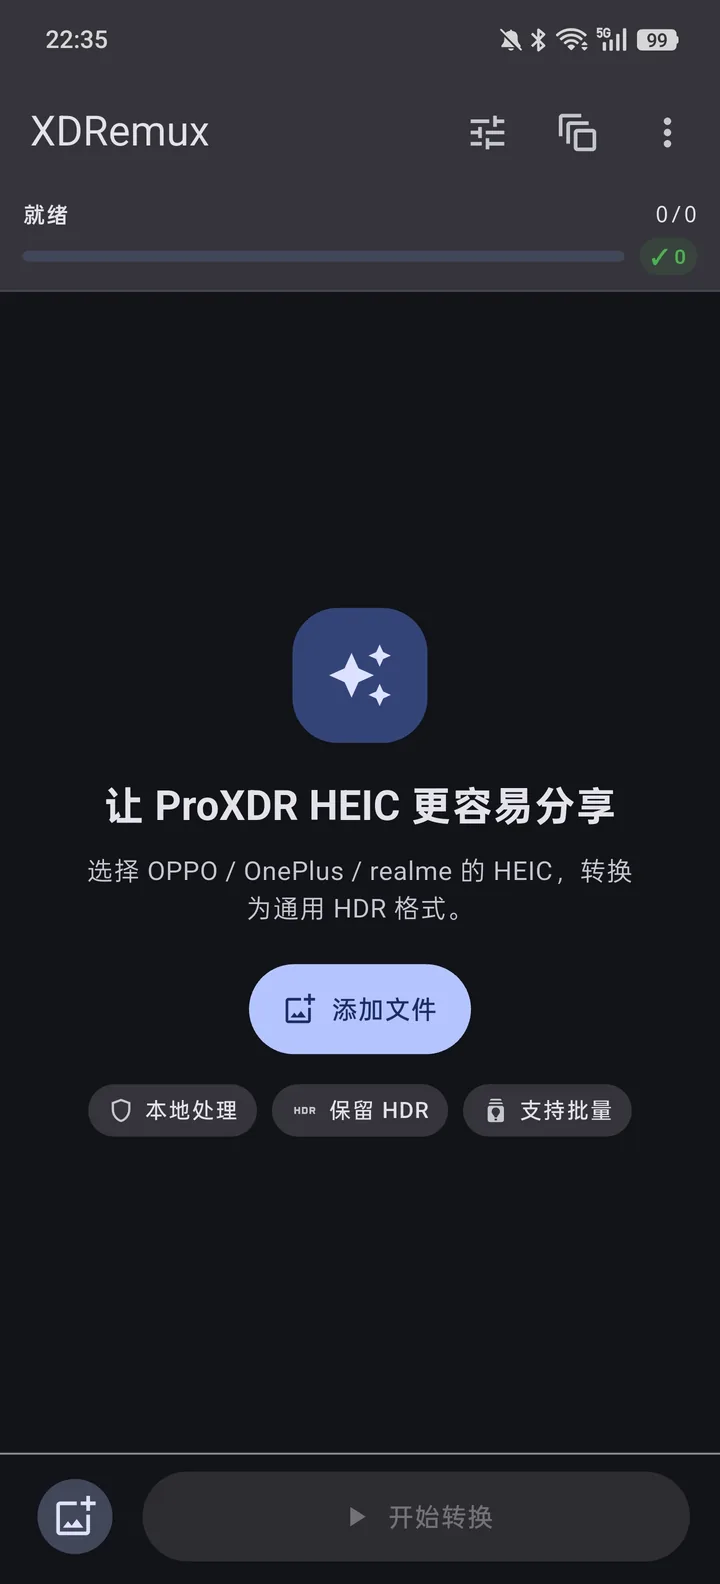
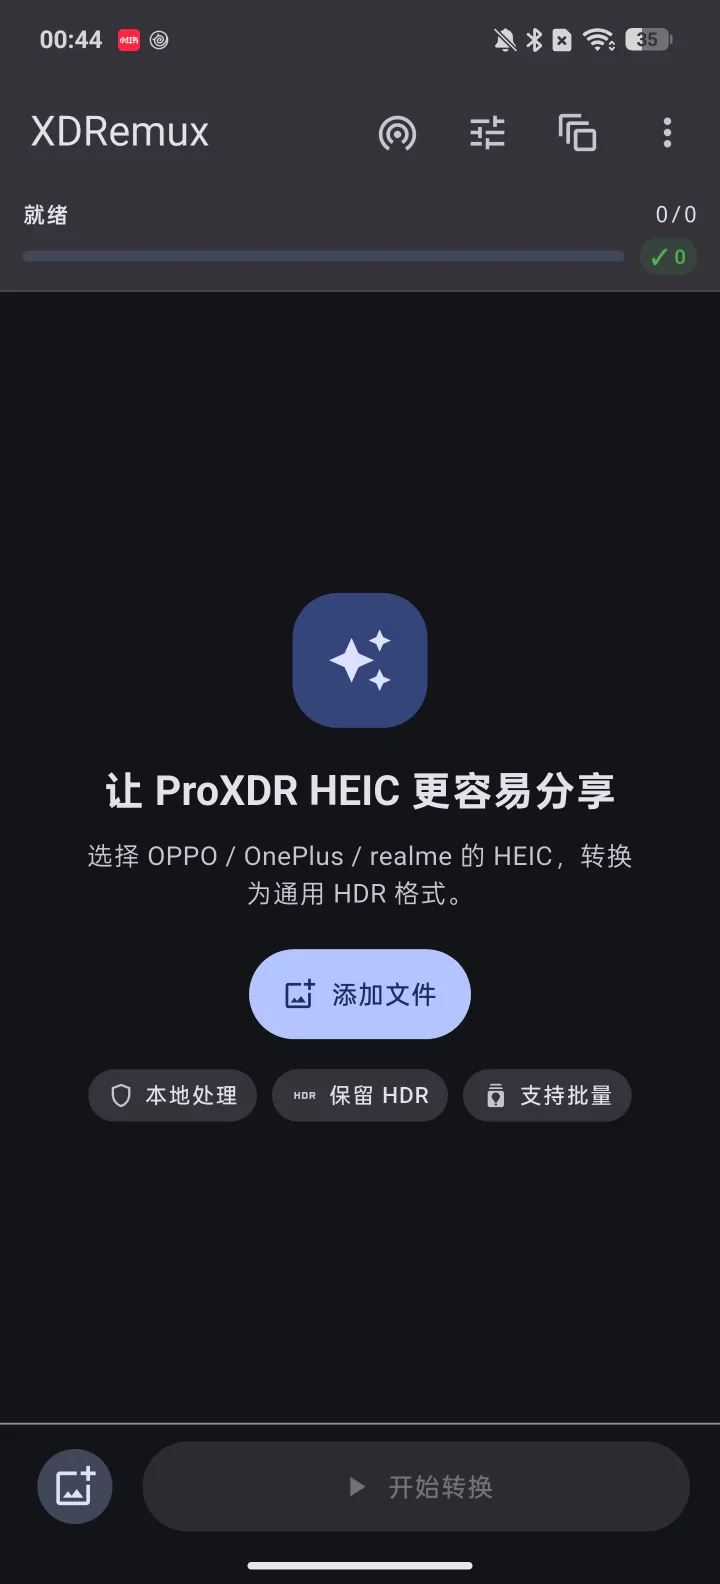
assets: Android screenshot from the 0.4.7 build on an OPPO Find X8 Ultra

diff --git a/index.html b/index.html
@@ -896,7 +896,7 @@ button{font-family:inherit}
       <div class="screens" id="screens" role="tabpanel" aria-labelledby="tab-windows" data-reveal>
         <figure class="screen on" data-shot="windows"><img src="assets/windows.webp" width="1600" height="901" alt="XDRemux Windows 版主界面"></figure>
         <figure class="screen" data-shot="macos" aria-hidden="true"><img src="assets/macos.webp?v=3" width="1600" height="1029" alt="XDRemux macOS 版主界面" loading="lazy"></figure>
-        <figure class="screen" data-shot="android" aria-hidden="true"><div class="phone-frame"><img src="assets/android.webp" width="720" height="1584" alt="XDRemux Android 版主界面" loading="lazy"></div></figure>
+        <figure class="screen" data-shot="android" aria-hidden="true"><div class="phone-frame"><img src="assets/android.webp?v=2" width="720" height="1584" alt="XDRemux Android 版主界面" loading="lazy"></div></figure>
         <figure class="screen" data-shot="ios" aria-hidden="true"><div class="phone-frame"><img src="assets/ios.webp?v=2" width="720" height="1048" alt="XDRemux iOS 版主界面，iPhone Duo 折叠屏上的转换队列" loading="lazy"></div></figure>
       </div>
       <p class="screen-cap"><span id="shotCap">支持原生拖放，HEIC 队列预览使用系统 WIC。截图来自 0.3 版本。</span></p>
@@ -1763,7 +1763,7 @@ button{font-family:inherit}
   const CAPS = {
     windows: '支持原生拖放，HEIC 队列预览使用系统 WIC。截图来自 0.3 版本。',
     macos: '电脑上的宽队列与详情布局。截图来自 0.4.7 版本。',
-    android: '支持分享接收、保存图库与后台转换。截图来自 0.3 版本。',
+    android: '支持分享接收、保存图库与后台转换。截图来自 0.4.7 版本。',
     ios: '从相册、文件或分享扩展导入。截图来自 iPhone Duo 模拟器上的 0.4.7 版本。'
   };
   const tabs = $$('[role="tab"][data-shot]');
